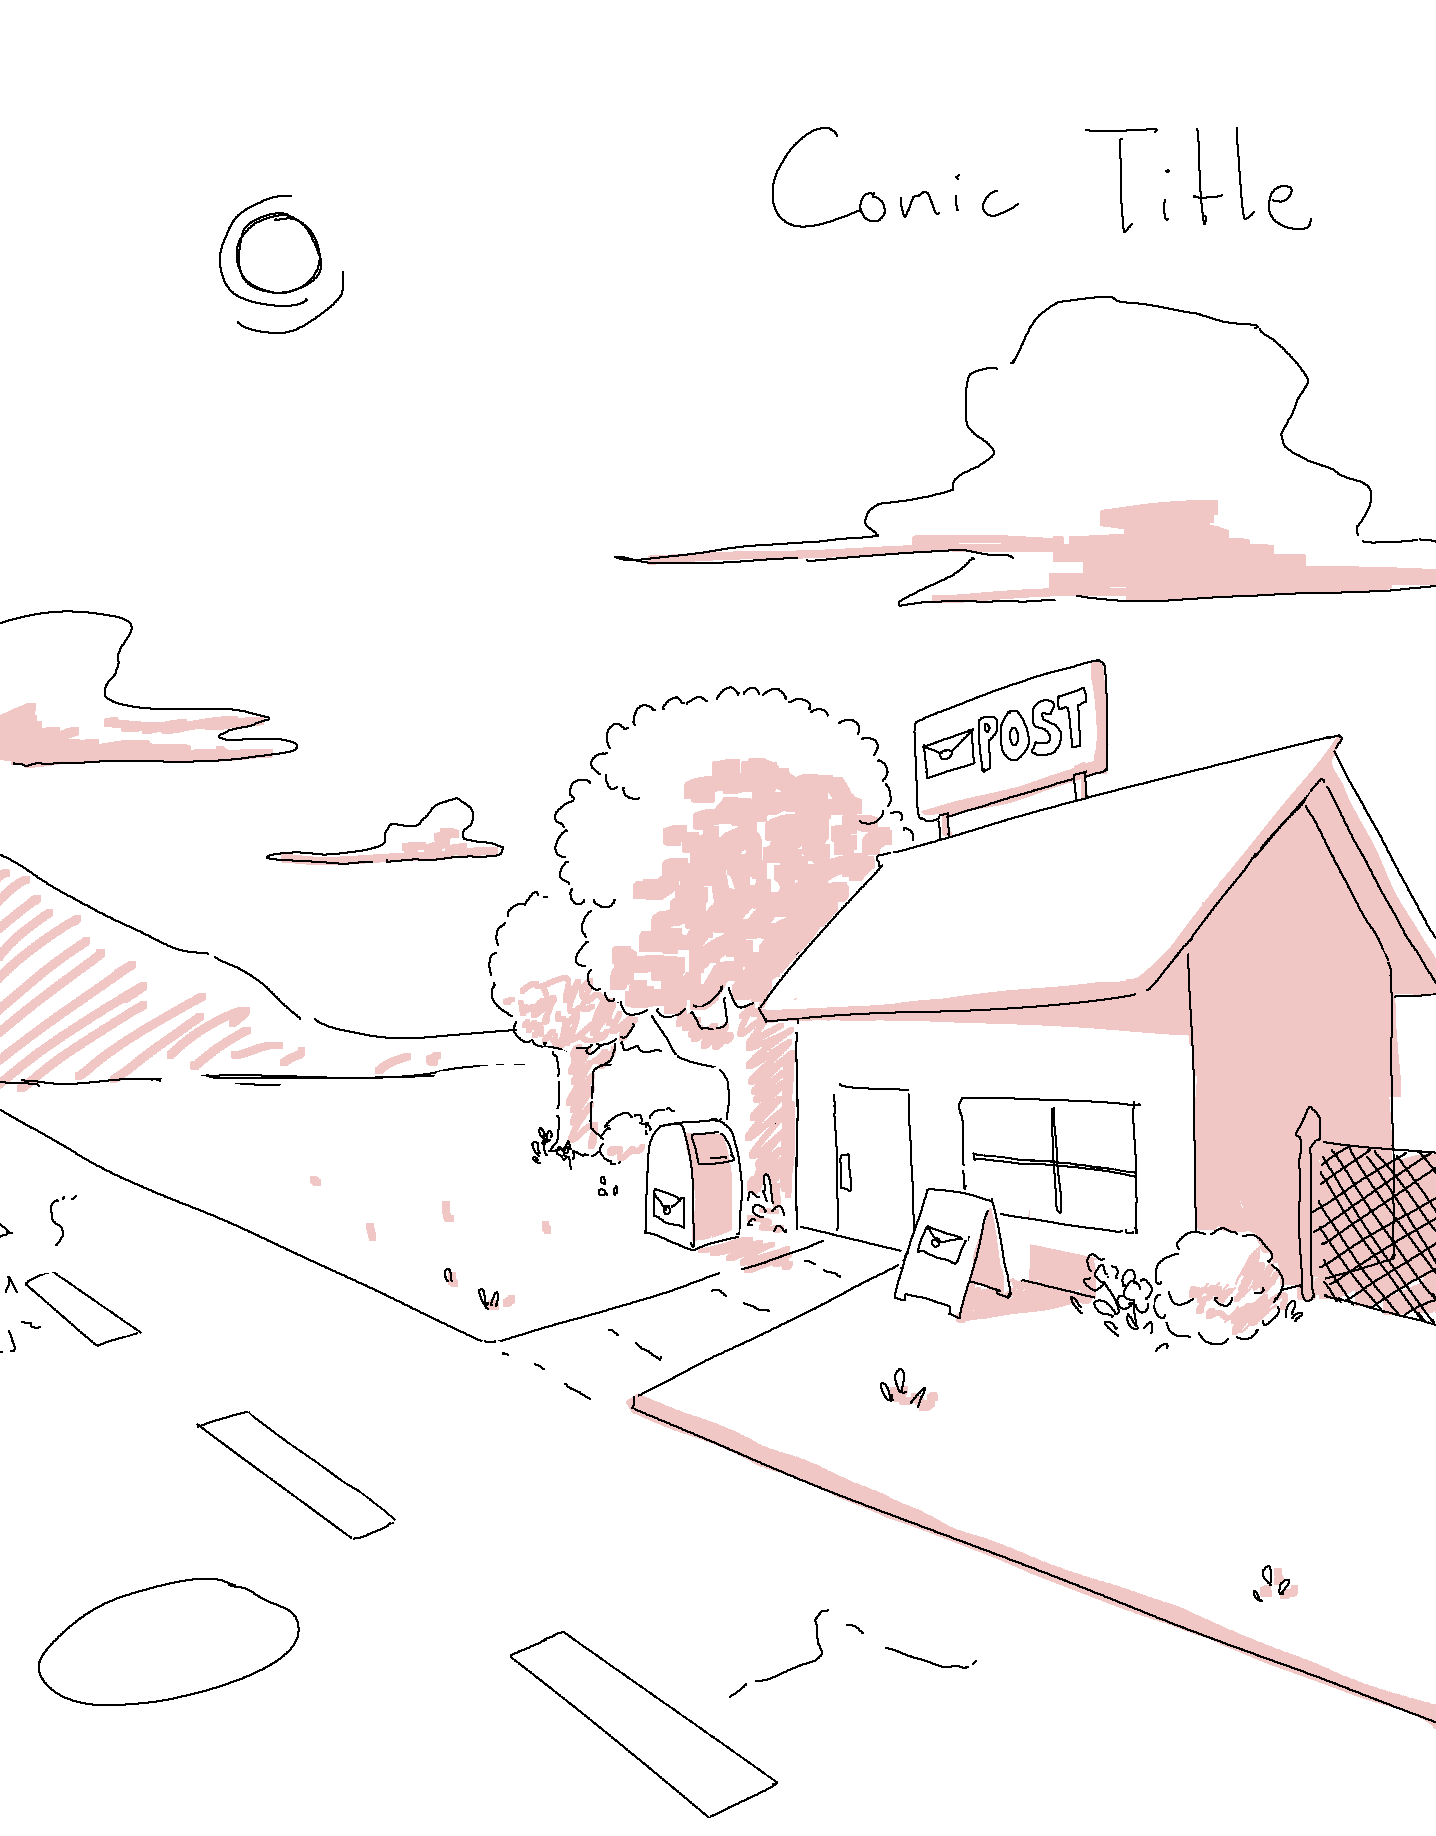
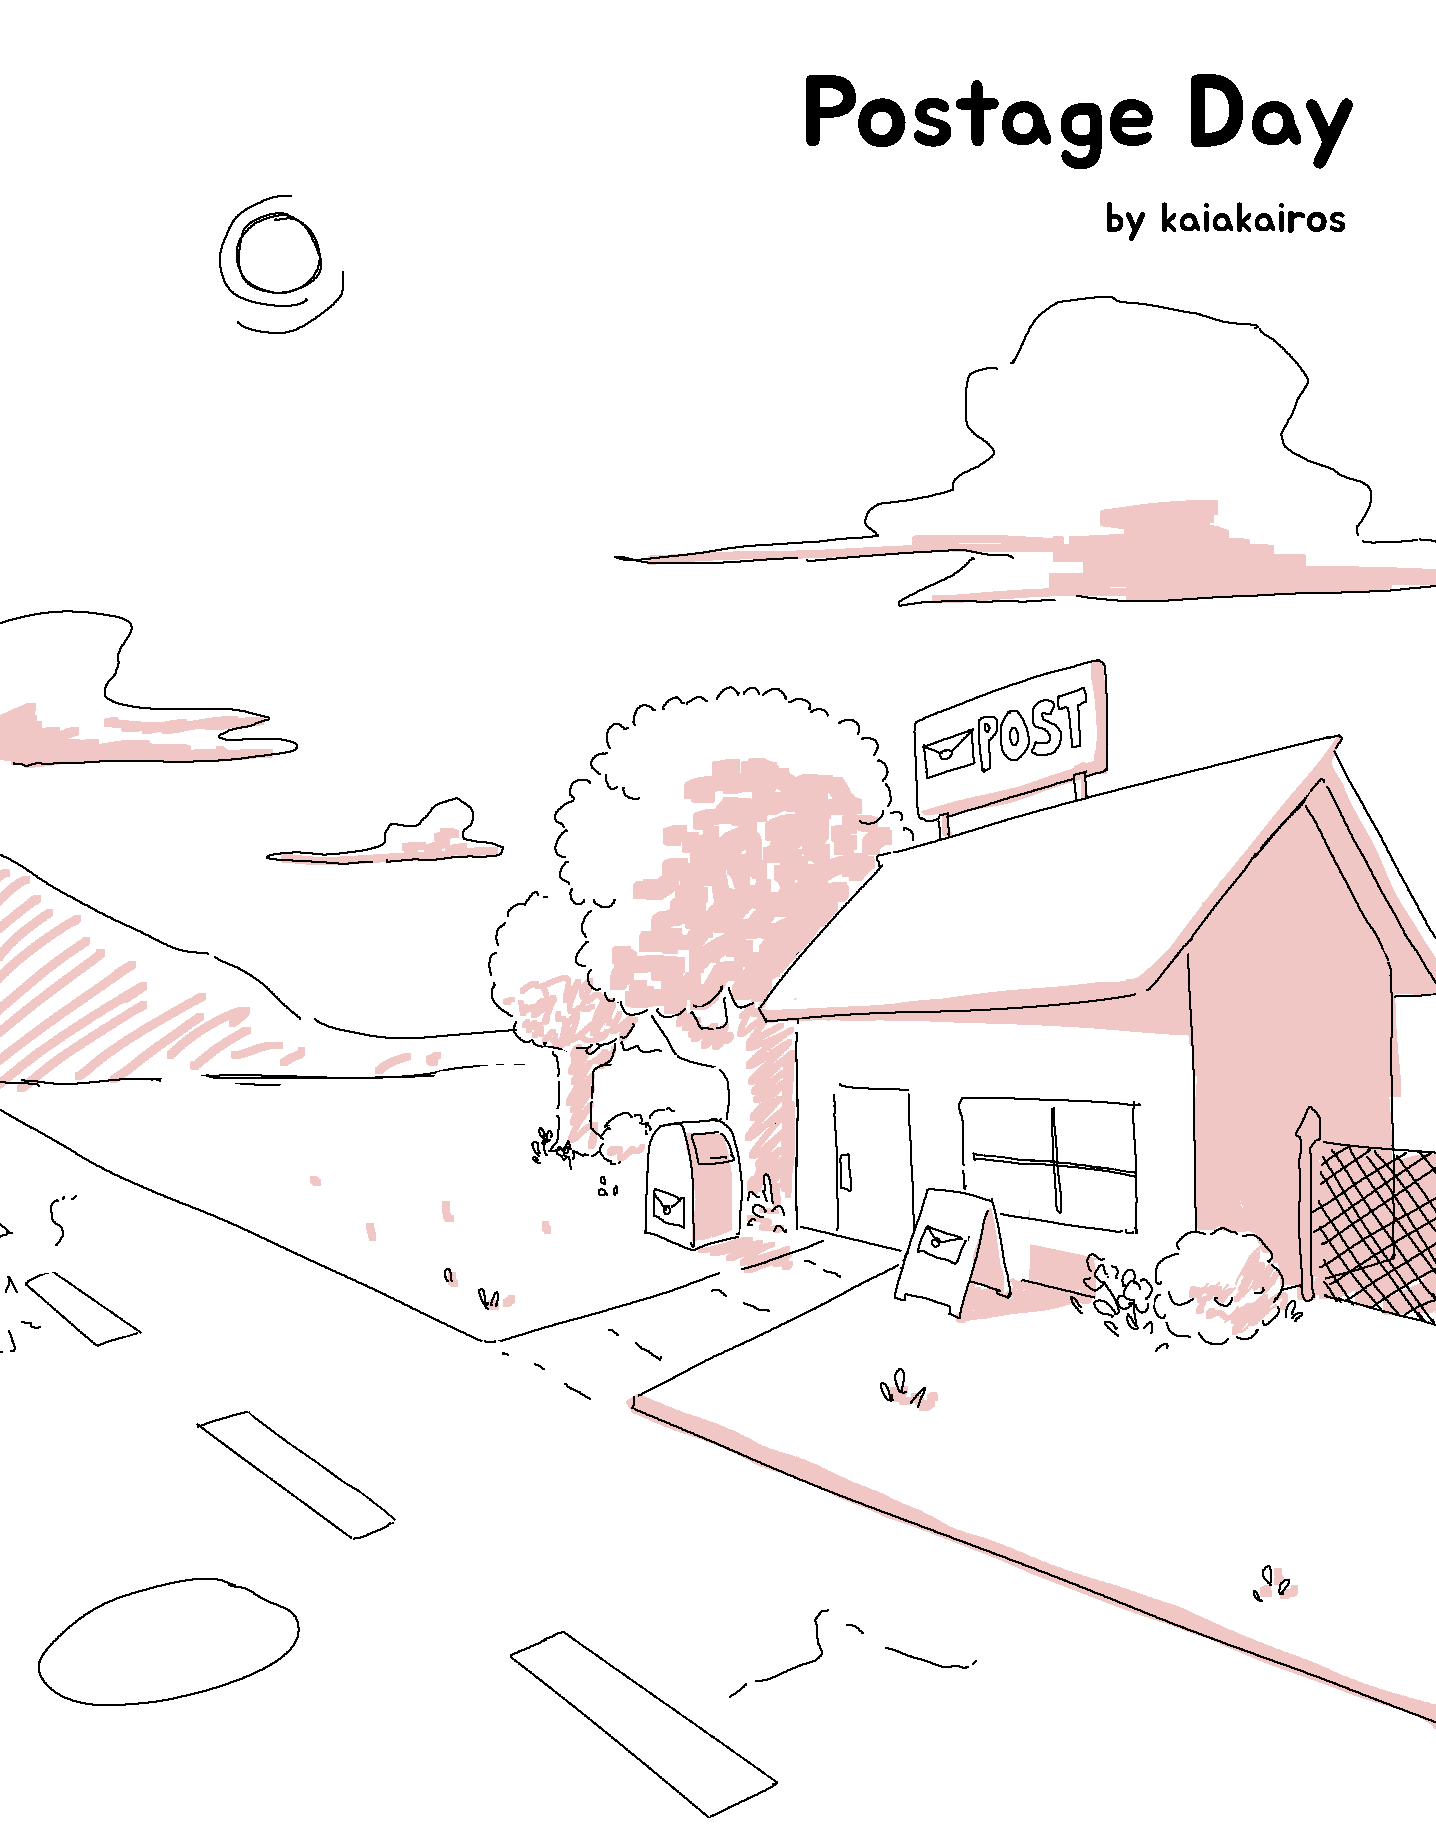
added chapter 1 of postage day comic

Changed region(s): [[0.5515, 0.031, 0.9499, 0.1242]]

diff --git a/comicList.html b/comicList.html
@@ -12,8 +12,8 @@
 
 <div class="blogList">
 
-<a href="comics/comicTemplate.html"> <div class="gameBox" style="background-image:url(images/comicBanners/paper.png);"> 
-<p> <pageCount> 4 pages - 2025 </pageCount> </p> <img src="images/gameBanners/lunarIcon.gif"> <p><comicTitle> test comic </comicTitle></p></div></a>
+<a href="comics/mailguy.html"> <div class="gameBox" style="background-image:url(images/comicBanners/mailguy.png);"> 
+<p> <pageCount> 12 pages - 2025 </pageCount> </p> <img src="images/comicBanners/mailguyIcon.png"> <p><comicTitle> Postage Day </comicTitle></p></div></a>
 
 </div>
 </body>

diff --git a/comics/mailguy.html b/comics/mailguy.html
@@ -10,7 +10,7 @@
 
 <script>
 var page = 0;
-var amountOfPages = 5;
+var amountOfPages = 12;
 var comicFolder = "mailguy";
 
 var fitWidth = 0;
@@ -111,7 +111,7 @@ function goHomeDeterminer(){
 <div class="navigationBox" style="transform:translate(0px,0px);" id="navBox"> <!-- CONTROL BOX -->
 	
 	<div class="poopbox" style="height:24px;display:flex;padding:4px;">
-		<p style="font-family: sanscodeItalic;"> Comic Title </p>
+		<p style="font-family: sanscodeItalic;"> Postage Day </p>
 	</div>
 	
 	<div class="poopbox" style="height:24px;display:flex;padding:4px;">
